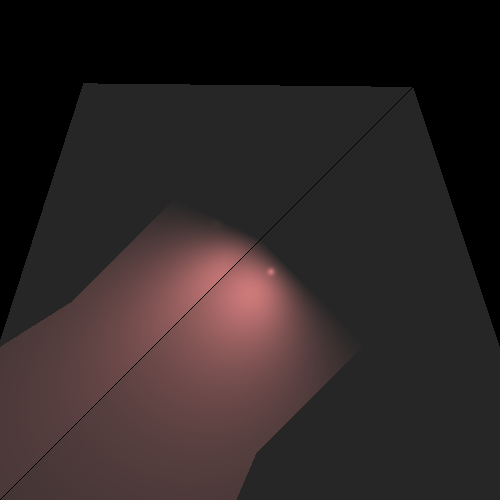
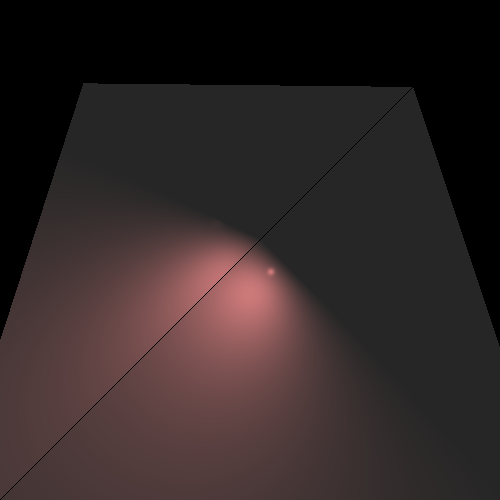
Reflection and refraction test

Changed region(s): [[0.45, 0.75, 0.69, 1.0], [0.0, 0.45, 0.3, 0.69]]

diff --git a/myTests/elements/ReflectionRefractionTests.java b/myTests/elements/ReflectionRefractionTests.java
@@ -1,0 +1,121 @@
+/**
+ *
+ */
+package elements;
+import static org.junit.jupiter.api.Assertions.*;
+import org.junit.jupiter.api.Test;
+
+import geometries.Sphere;
+import geometries.Triangle;
+import primitives.*;
+import renderer.*;
+import scene.Scene;
+
+/**
+ * Tests for reflection and transparency functionality, test for partial shadows
+ * (with transparency)
+ *
+ * @author dzilb
+ */
+public class ReflectionRefractionTests {
+    private Scene scene = new Scene("Test scene");
+
+    /**
+     * Produce a picture of a sphere lighted by a spot light
+     */
+    @Test
+    public void twoSpheres() {
+        Camera camera = new Camera(new Point3D(0, 0, 1000), new Vector(0, 1, 0), new Vector(0, 0, -1)) //
+                .setViewPlaneSize(150, 150).setDistance(1000);
+
+        scene.geometries.add( //
+                new Sphere(new Point3D(0, 0, -50),50) //
+                        .setEmission(new Color(java.awt.Color.BLUE)) //
+                        .setMaterial(new Material().setkD(0.4).setkS(0.3).setnShininess(100).setkT(0.3)),
+                new Sphere(new Point3D(0, 0, -50),25) //
+                        .setEmission(new Color(java.awt.Color.RED)) //
+                        .setMaterial(new Material().setkD(0.5).setkS(0.5).setnShininess(100)));
+        scene.lights.add( //
+                new SpotLight(new Color(1000, 600, 0), new Point3D(-100, -100, 500), new Vector(-1, -1, -2)) //
+                        .setkL(0.0004).setkQ(0.0000006));
+
+        Render render = new Render() //
+                .setImageWriter(new ImageWriter("refractionTwoSpheres", 500, 500)) //
+                .setCamera(camera) //
+                .setRayTracer(new RayTracerBasic(scene));
+        render.renderImage();
+        render.writeToImage();
+    }
+
+    /**
+     * Produce a picture of a sphere lighted by a spot light
+     */
+    @Test
+    public void twoSpheresOnMirrors() {
+        Camera camera = new Camera(new Point3D(0, 0, 10000), new Vector(0, 1, 0), new Vector(0, 0, -1)) //
+                .setViewPlaneSize(2500, 2500).setDistance(10000); //
+
+        scene.setAmbientLight(new AmbientLight(new Color(255, 255, 255), 0.1));
+
+        scene.geometries.add( //
+                new Sphere( new Point3D(-950, -900, -1000),400) //
+                        .setEmission(new Color(0, 0, 100)) //
+                        .setMaterial(new Material().setkD(0.25).setkS(0.25).setnShininess(20).setkT(0.5)),
+                new Sphere( new Point3D(-950, -900, -1000),200) //
+                        .setEmission(new Color(100, 20, 20)) //
+                        .setMaterial(new Material().setkD(0.25).setkS(0.25).setnShininess(20)),
+                new Triangle(new Point3D(1500, -1500, -1500), new Point3D(-1500, 1500, -1500),
+                        new Point3D(670, 670, 3000)) //
+                        .setEmission(new Color(20, 20, 20)) //
+                        .setMaterial(new Material().setkR(1)),
+                new Triangle(new Point3D(1500, -1500, -1500), new Point3D(-1500, 1500, -1500),
+                        new Point3D(-1500, -1500, -2000)) //
+                        .setEmission(new Color(20, 20, 20)) //
+                        .setMaterial(new Material().setkR(0.5)));
+
+        scene.lights.add(new SpotLight(new Color(1020, 400, 400), new Point3D(-750, -750, -150), new Vector(-1, -1, -4)) //
+                .setkL(0.00001).setkQ(0.000005));
+
+        ImageWriter imageWriter = new ImageWriter("reflectionTwoSpheresMirrored", 500, 500);
+        Render render = new Render() //
+                .setImageWriter(imageWriter) //
+                .setCamera(camera) //
+                .setRayTracer(new RayTracerBasic(scene));
+
+        render.renderImage();
+        render.writeToImage();
+    }
+
+    /**
+     * Produce a picture of a two triangles lighted by a spot light with a partially
+     * transparent Sphere producing partial shadow
+     */
+    @Test
+    public void trianglesTransparentSphere() {
+        Camera camera = new Camera(new Point3D(0, 0, 1000),new Vector(0, 1, 0), new Vector(0, 0, -1)) //
+                .setViewPlaneSize(200, 200).setDistance(1000);
+
+        scene.setAmbientLight(new AmbientLight(new Color(java.awt.Color.WHITE), 0.15));
+
+        scene.geometries.add( //
+                new Triangle(new Point3D(-150, -150, -115), new Point3D(150, -150, -135), new Point3D(75, 75, -150)) //
+                        .setMaterial(new Material().setkD(0.5).setkS(0.5).setnShininess(60)), //
+                new Triangle(new Point3D(-150, -150, -115), new Point3D(-70, 70, -140), new Point3D(75, 75, -150)) //
+                        .setMaterial(new Material().setkD(0.5).setkS(0.5).setnShininess(60)), //
+                new Sphere( new Point3D(60, 50, -50),30) //
+                        .setEmission(new Color(java.awt.Color.BLUE)) //
+                        .setMaterial(new Material().setkD(0.2).setkS(0.2).setnShininess(30).setkT(0.6)));
+
+        scene.lights.add(new SpotLight(new Color(700, 400, 400), new Point3D(60, 50, 0), new Vector(0, 0, -1)) //
+                .setkL(4E-5).setkQ(2E-7));
+
+        ImageWriter imageWriter = new ImageWriter("refractionShadow", 600, 600);
+        Render render = new Render() //
+                .setImageWriter(imageWriter) //
+                .setCamera(camera) //
+                .setRayTracer(new RayTracerBasic(scene));
+
+        render.renderImage();
+        render.writeToImage();
+    }
+}

diff --git a/src/renderer/RayTracerBasic.java b/src/renderer/RayTracerBasic.java
@@ -17,10 +17,7 @@ import static primitives.Util.alignZero;
  * implement the methods
  */
 public class RayTracerBasic extends RayTracerBase{
-    /**
-     * constant double DELTA = 0.1
-     */
-    public static final double DELTA = 0.1;
+
     /**
      * constant of maximum calculation of color level
      */
@@ -67,12 +64,12 @@ public class RayTracerBasic extends RayTracerBase{
      * @param geoPoint geo point of the intersection
      * @param ray the ray to the point
      * @param level recursive condition
-     * @param k
+     * @param k transparency level
      * @return the color of the point
      */
     private Color calcColor(GeoPoint geoPoint, Ray ray, int level, double k) {
         Color color = geoPoint.geometry.getEmission();
-        color = color.add(calcLocalEffects(geoPoint, ray));
+        color = color.add(calcLocalEffects(geoPoint, ray,k));
         return 1 == level ? color : color.add(calcGlobalEffects(geoPoint, ray.getDir(), level, k));
     }
 
@@ -81,7 +78,7 @@ public class RayTracerBasic extends RayTracerBase{
      * @param gp geo point that we handling
      * @param v vector of the direction of the ray
      * @param level recursive condition
-     * @param k
+     * @param k transparency level
      * @return the final calculation of the color after global effect
      */
     private Color calcGlobalEffects(GeoPoint gp, Vector v, int level, double k) {
@@ -98,7 +95,7 @@ public class RayTracerBasic extends RayTracerBase{
     }
     //TODO
     private Ray constructRefractedRay(Point3D point3D, Vector v, Vector n) {
-        return new Ray(point3D, v);
+        return new Ray(point3D, v,n);
     }
 
     /**
@@ -110,7 +107,7 @@ public class RayTracerBasic extends RayTracerBase{
      */
     private Ray constructReflectedRay(Point3D point3D, Vector v, Vector n) {
         Vector r = v.subtract(n.scale(v.dotProduct(n)*2));
-        return new Ray(point3D,r);
+        return new Ray(point3D,r,n);
     }
 
     /**
@@ -144,9 +141,10 @@ public class RayTracerBasic extends RayTracerBase{
      * method to find the effects of this geo point
      * @param geoPoint point that we have handling
      * @param ray the ray to the point
+     * @param k
      * @return the color of the point (after calculations)
      */
-    private Color calcLocalEffects(GeoPoint geoPoint, Ray ray) {
+    private Color calcLocalEffects(GeoPoint geoPoint, Ray ray, double k) {
         Vector v = ray.getDir ();
         Vector n = geoPoint.geometry.getNormal(geoPoint.point3D);
         double nv = alignZero(n.dotProduct(v));
@@ -159,10 +157,11 @@ public class RayTracerBasic extends RayTracerBase{
             Vector l = lightSource.getL(geoPoint.point3D);
             double nl = alignZero(n.dotProduct(l));
             if (nl * nv > 0) { // sign(nl) == sign(nv)
-                    if (unshaded(lightSource,l,n, geoPoint)){
-                    Color lightIntensity = lightSource.getIntensity(geoPoint.point3D);
-                    color = color.add(calcDiffusive(kd, l, n, lightIntensity),
-                            calcSpecular(ks, l, n, v, nShininess, lightIntensity));
+                double ktr = transparency(lightSource,l,n,geoPoint);
+                    if (ktr * k > MIN_CALC_COLOR_K){
+                        Color lightIntensity = lightSource.getIntensity(geoPoint.point3D).scale(ktr);
+                        color = color.add(calcDiffusive(kd, l, n, lightIntensity),
+                        calcSpecular(ks, l, n, v, nShininess, lightIntensity));
                 }
             }
         }
@@ -176,24 +175,22 @@ public class RayTracerBasic extends RayTracerBase{
      * @param gp the body that we check if is unshaded
      * @return boolean if this shaded or not
      */
-    private boolean unshaded (LightSource light,Vector l, Vector n, GeoPoint gp){
+    private double transparency(LightSource light, Vector l, Vector n, GeoPoint gp){
         Vector lightDirection = l.scale(-1); // from point to light source
 
-        Vector epsVector = n.scale(n.dotProduct(lightDirection) > 0 ? DELTA : -DELTA);
-        Point3D point = gp.point3D.add(epsVector);
-
-        Ray lightRay = new Ray(point, lightDirection);
+        Ray lightRay = new Ray(gp.point3D, lightDirection,n);
+        double lightDistance = light.getDistance(gp.point3D);
         List<GeoPoint> intersections = _scene.geometries.findGeoIntersections(lightRay);
-        if (intersections == null) return true;
+        if (intersections == null) return 1d;
         // check if there is any think between the light source to the point
         double myDistance = light.getDistance(gp.point3D);
+        double ktr= 1.0;
         for (GeoPoint geoPoint: intersections) {
-            if (light.getDistance(geoPoint.point3D) < myDistance)
-                return false;
+            if (alignZero(geoPoint.point3D.distance(gp.point3D) - lightDistance) <= 0)
+                ktr *= geoPoint.geometry.getMaterial().kT;
+                if (ktr < MIN_CALC_COLOR_K) return 0.0;
         }
-        return true;
-
-
+        return ktr;
     }
 
     private Color calcSpecular(double ks, Vector l, Vector n, Vector v, int nShininess, Color lightIntensity) {

diff --git a/src/primitives/Ray.java b/src/primitives/Ray.java
@@ -9,11 +9,23 @@ public class Ray {
     // variables
     final Point3D _p0;
     final Vector _dir;
-
+    /**
+     * constant double DELTA = 0.1
+     */
+    public static final double DELTA = 0.1;
     // constructor
     public Ray(Point3D pnt, Vector vec){
         _p0 = new Point3D(pnt._x, pnt._y, pnt._z);
         _dir = vec.normalized();
+    }
+
+    public Ray(Point3D head, Vector dir, Vector normal){
+        double nv = normal.dotProduct(dir.normalized());
+        if (nv > 0)
+            _p0 = head.add(normal.scale(DELTA));
+        else
+            _p0 = head.add(normal.scale(DELTA * -1));
+        _dir = dir.normalized();
     }
 
     // getters

diff --git a/src/geometries/Tube.java b/src/geometries/Tube.java
@@ -25,7 +25,7 @@ public class Tube extends Geometry{
 
     /**
      * The normal of the tube to the point
-     * @param pnt
+     * @param pnt point to calculate the normal
      * @return The normal of the tube to the point
      */
     @Override
